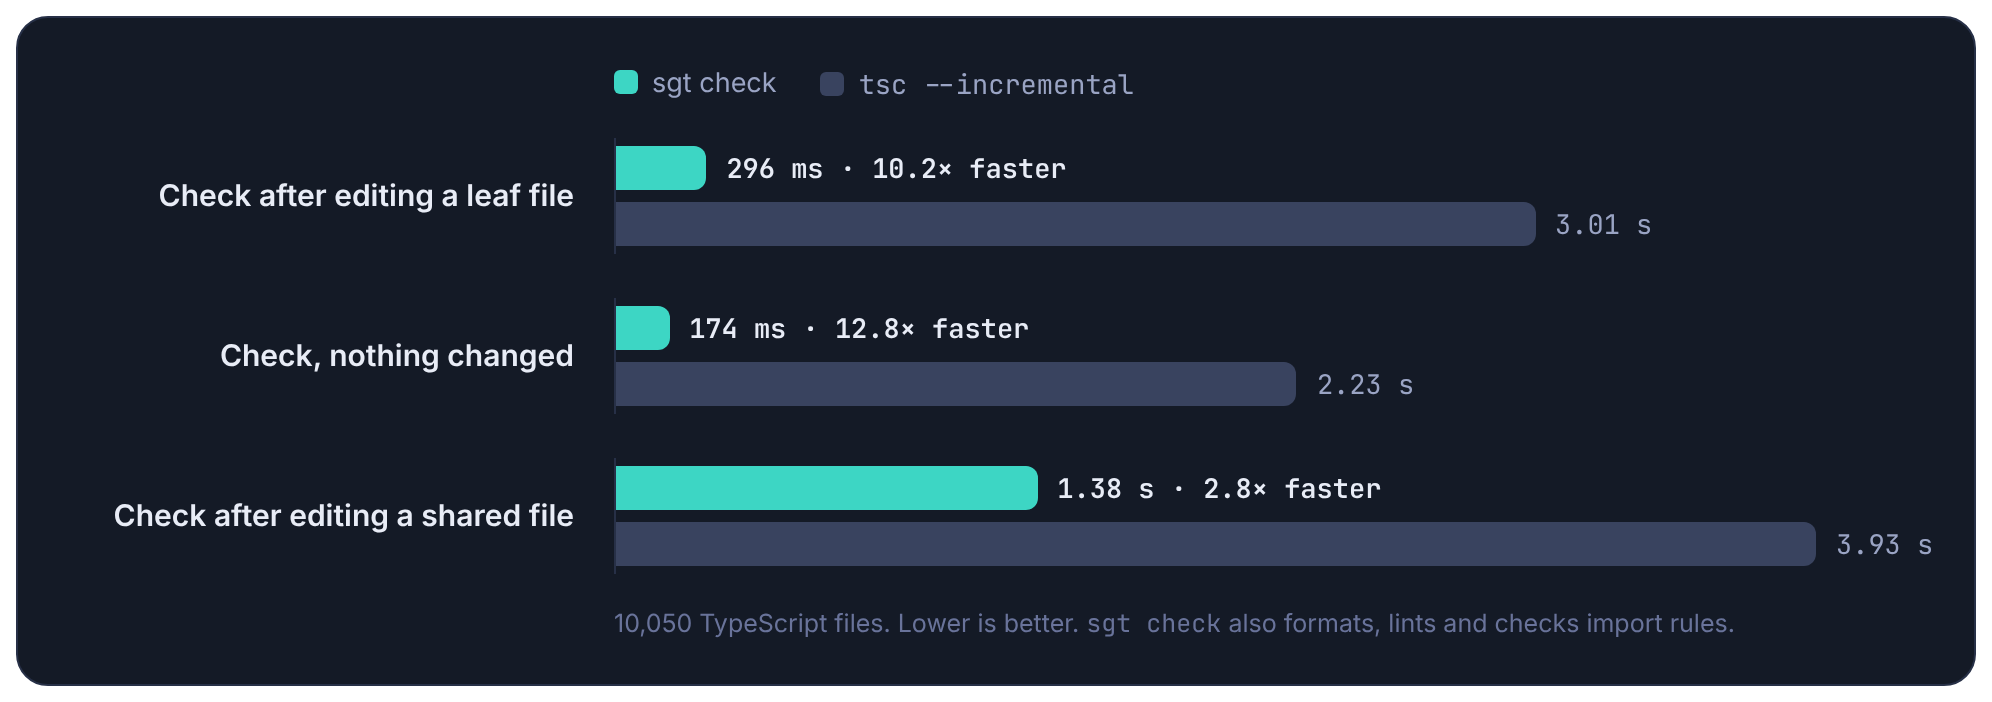
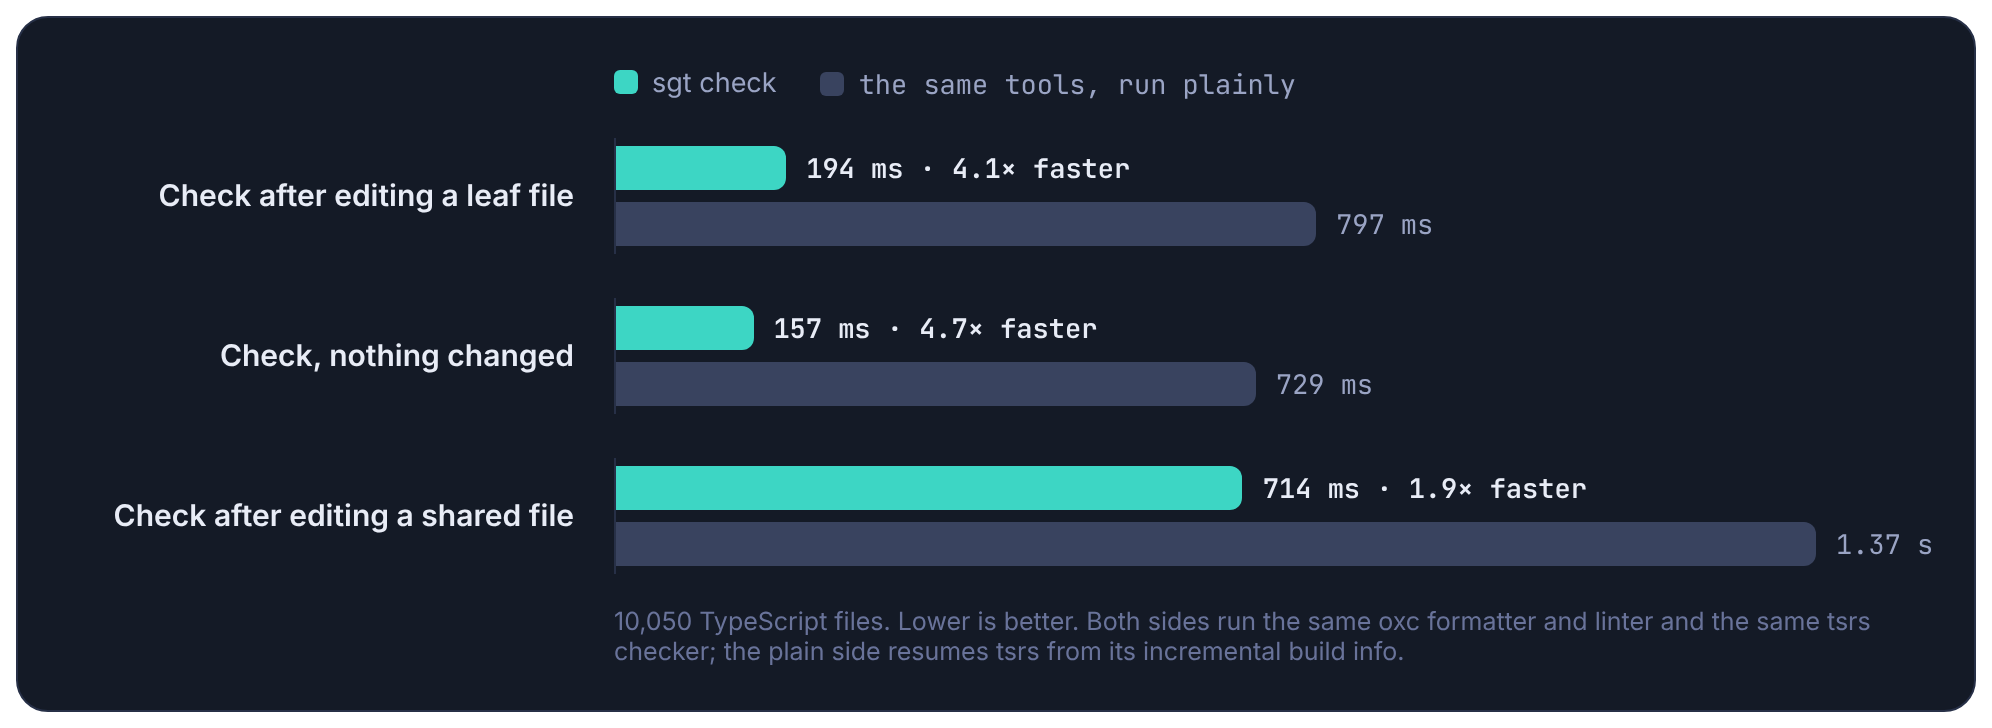
Benchmark against the same tools Sergeant runs (#2)
* A README that explains Sergeant, with a banner and diagrams rendered from HTML

The README now says what problem Sergeant solves and how, with the commands people
reach for, the benchmark numbers from the source repository's CI run, and a conceptual
comparison with Bazel, Buck2, Pants, Nx, Turborepo and Moon.

GitHub does not draw Mermaid in every place a README is shown, so the banner and the
diagrams are PNGs rendered from HTML in assets/src by assets/render.mjs, light and dark,
with fonts and Playwright pinned by assets/pnpm-lock.yaml.

Claude-Session: https://claude.ai/code/session_019RdShSGzHiuhrcaoFAxYNG

* Tidy the benchmark table and the command list so neither wraps

Claude-Session: https://claude.ai/code/session_019RdShSGzHiuhrcaoFAxYNG

* Benchmark against the same tools Sergeant runs, and say why a shared cache is safe

The chart and table now compare with oxc and tsrs run plainly over every file, with tsrs
resuming from its incremental build info, and with `bun test` run directly. A new section
says why worktrees can share one cache.

Claude-Session: https://claude.ai/code/session_019RdShSGzHiuhrcaoFAxYNG

---------

diff --git a/assets/src/benchmarks.js b/assets/src/benchmarks.js
@@ -1,11 +1,11 @@
 // The numbers the benchmark chart draws. Copied from the benchmark run named in `source`,
 // never typed from memory: update them from a newer run, not by hand.
 window.BENCHMARKS = {
-  source: "Braden1996/sergeant benchmarks/results.json, 2026-11-16, commit 14224ab: 10,050 files in 250 units, medians on 2 cores of an AMD EPYC 7763, TypeScript 7.0.2",
-  other: "tsc --incremental",
+  source: "Braden1996/sergeant benchmarks/results.json, 2026-11-17, commit d7f9d11: 10,050 files in 250 units, medians on 4 cores of an Intel Xeon @ 2.10GHz, tsrs 7.1.0-beta.tsrs1",
+  other: "the same tools, run plainly",
   rows: [
-    { label: "Check after editing a leaf file", sgt: 0.296, other: 3.01 },
-    { label: "Check, nothing changed", sgt: 0.174, other: 2.23 },
-    { label: "Check after editing a shared file", sgt: 1.38, other: 3.93 },
+    { label: "Check after editing a leaf file", sgt: 0.1939, other: 0.7974 },
+    { label: "Check, nothing changed", sgt: 0.1565, other: 0.7288 },
+    { label: "Check after editing a shared file", sgt: 0.714, other: 1.3668 },
   ],
 };

diff --git a/assets/src/benchmarks.html b/assets/src/benchmarks.html
@@ -22,7 +22,7 @@
 <div id="frame"><div class="wrap">
   <div class="key"><span><i style="background: var(--teal)"></i>sgt check</span><span><i style="background: var(--edge)"></i><span class="mono" id="other"></span></span></div>
   <div class="grid" id="grid"></div>
-  <div class="note">10,050 TypeScript files. Lower is better. <span class="mono">sgt check</span> also formats, lints and checks import rules.</div>
+  <div class="note">10,050 TypeScript files. Lower is better. Both sides run the same oxc formatter and linter and the same tsrs checker; the plain side resumes tsrs from its incremental build info.</div>
 </div></div>
 <script src="benchmarks.js"></script>
 <script>

diff --git a/README.md b/README.md
@@ -85,6 +85,18 @@ taking all of them.
   <img alt="Sixteen agent worktrees feed one machine with one run per key and a shared job pool, backed by one cache. Measured: 30.4 s to 4.1 s, 768 test runs to 48, 1,073 MB to 69 MB peak test memory." src="assets/agents.png">
 </picture>
 
+### Why sharing a cache across worktrees is safe
+
+A key is not a test's name. It is a hash of every byte the test can read: the file,
+everything it imports, the lockfile, the toolchain and the settings. Two worktrees with
+different edits anywhere in a test's imports get different keys and each run their own. Two
+with the same bytes get the same key, and the replayed pass is the answer they would have got
+by running it. A failure is never kept, so a worktree that waited on one runs the test
+itself. On Linux, sealing is what makes the key complete: the test can't open a file the key
+missed, because it isn't there. Where runs aren't sealed, as on Windows today, the key is
+still everything the imports say, but a test that reads a file it never imports isn't
+stopped. Only sealed CI runs write to a shared remote cache.
+
 ## Commands
 
 ```sh
@@ -129,38 +141,41 @@ Point an agent at it with:
 
 ## Benchmarks
 
-`sgt check` against TypeScript 7's native `tsc` on a generated workspace of 10,050 files.
-`sgt check` also formats, lints and enforces import rules, so it does more work than `tsc`.
+`sgt check` and `sgt test` against the very tools Sergeant runs, run plainly over a generated
+workspace of 10,050 files: the oxc formatter and linter and the declaration check on every
+file, tsrs on every program, and `bun test` on every test. Once tsrs has run it resumes from
+its own incremental build info. The tools are the same on both sides, so the difference is
+only what the build system chooses not to redo.
 
 <picture>
   <source media="(prefers-color-scheme: dark)" srcset="assets/benchmarks-dark.png">
-  <img alt="Check after editing a leaf file: 296 ms against 3.01 s. Nothing changed: 174 ms against 2.23 s. After editing a shared file: 1.38 s against 3.93 s." src="assets/benchmarks.png">
+  <img alt="Check after editing a leaf file: 194 ms against 797 ms. Nothing changed: 157 ms against 729 ms. After editing a shared file: 714 ms against 1.37 s." src="assets/benchmarks.png">
 </picture>
 
-The whole run, including where Sergeant is slower. The plain tool for `check` is `tsc`, or
-`tsc --incremental` once it has run, and for `test` it is `bun test`, which runs all 2,000
-tests every time. A cold `check` does more than `tsc` does, and `sgt test` gives every test
-file a fresh global object, which costs time beside one `bun test` process. Sergeant wins
-once there is something to reuse.
+The whole run, including where Sergeant is slower. A cold `check` does all the work the plain
+tools do, then also checks the import rules and writes every result to its cache. `sgt test`
+gives every test file a fresh global object so that one file can't leak into another, which
+costs time beside one `bun test` process when every test has to run.
 
-| | Sergeant | Plain tool | | Work redone |
+| | Sergeant | Same tools, plainly | | Work redone |
 | --- | ---: | ---: | ---: | ---: |
-| `check`, cold | 4.56 s | 2.92 s | 1.6× slower | 40,200 of 40,200 |
-| `check`, nothing changed | 174 ms | 2.23 s | 12.8× faster | 0 of 40,200 |
-| `check` after editing a shared file | 1.38 s | 3.93 s | 2.8× faster | 7,155 of 40,200 |
-| `check` after editing a leaf file | 296 ms | 3.01 s | 10.2× faster | 4 of 40,200 |
-| `test`, cold | 2.74 s | 1.30 s | 2.1× slower | 2,000 of 2,000 |
-| `test` after editing a shared file | 1.93 s | 1.29 s | 1.5× slower | 685 of 2,000 |
-| `test` after editing a leaf file | 176 ms | | | 0 of 2,000 |
+| `check`, cold | 1.29 s | 1.14 s | 1.1× slower | 40,200 of 40,200 |
+| `check`, nothing changed | 157 ms | 729 ms | 4.7× faster | 0 of 40,200 |
+| `check` after editing a shared file | 714 ms | 1.37 s | 1.9× faster | 7,155 of 40,200 |
+| `check` after editing a leaf file | 194 ms | 797 ms | 4.1× faster | 4 of 40,200 |
+| `test`, cold | 1.44 s | 1.56 s | 1.1× faster | 2,000 of 2,000 |
+| `test` after editing a shared file | 897 ms | 1.55 s | 1.7× faster | 685 of 2,000 |
+| `test` after editing a leaf file | 132 ms | | | 0 of 2,000 |
 
 Sixteen agents running `sgt test` at once on one commit, on a 4-core machine with 48
 CPU-bound test files each: **30.4 s → 4.1 s** wall time and **768 → 48** test runs once
 the job pool and one-run-per-key landed. With every key different, so nothing can be
 shared, the pool still cuts peak test memory from 1,077 MB to 135 MB.
 
-<sub>Medians on 2 cores of an AMD EPYC 7763 (Linux), 2026-11-16, TypeScript 7.0.2 and Bun 1.4.4.
-Measured by CI, which reruns them each week the code changes. The workspaces are generated and
-regular, so real repositories are slower for both tools; the ratios say more than the times.</sub>
+<sub>Medians on 4 cores of an Intel Xeon @ 2.10GHz (Linux), 2026-11-17, tsrs 7.1.0-beta.tsrs1 and
+Bun 1.4.4. The plain `bun test` reruns all 2,000 tests whatever changed. The workspaces are
+generated and regular, so real repositories are slower for both; the ratios say more than
+the times.</sub>
 
 ## How it compares
 
